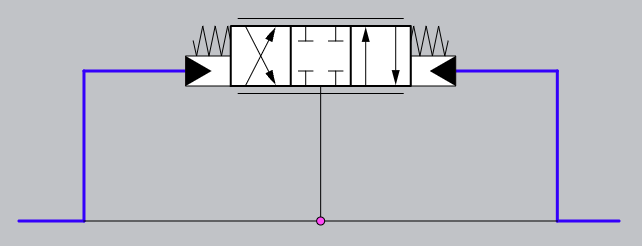
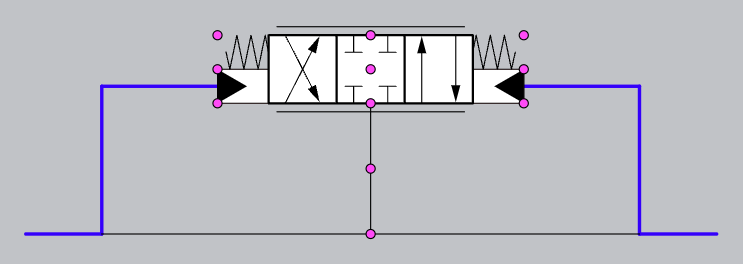
Update the user guide.

Changed region(s): [[0.0312, 0.0569, 0.9657, 0.9106], [0.4673, 0.626, 0.5296, 0.6545]]

diff --git a/README.md b/README.md
@@ -193,6 +193,29 @@ Most meeting types can be specified in _either_ file of the line types involved.
 -  If a glyph is specified in both files, but they are different glyphs, then no glyph will be used.
 -  If a glyph is specified in neither file, then no glyph will be used.
 
+### Configuring line type display order and keyboard shortcuts
+
+An optional `config.json` file can be placed in the same folder as the line types to configure two things:
+
+-  The order in which the line types appear in the sidebar.
+-  Keyboard shortcuts for switching to each line type.
+
+Here is an example of what `config.json` might look like:
+
+```
+{
+   "sidebarOrder": ["tether", "hydraulic", "drain", "pilot"],
+   "keyBindings": {
+      "tether": "T",
+      "hydraulic": "1",
+      "drain": "2",
+      "pilot": "3"
+   }
+}
+```
+
+As before, a line type is referenced by its file name (omitting the `.json` file extension). A key binding can be specified by a letter A-Z, a number 0-9, or any of the codes on [this page](https://developer.mozilla.org/en-US/docs/Web/API/UI_Events/Keyboard_event_code_values).
+
 ### Glyphs
 
 A "glyph" is a small symbol that can be placed (automatically or manually) at the point where two lines meet. As described earlier, a glyph is specified by an SVG file placed in a particular subfolder within the project folder.
@@ -232,7 +255,7 @@ And a symbol can be positioned midway between two lines as follows:
 
 <img src="./user-guide-images/equal-spacing.png" width="400px">
 
-Here, a vertical tether has been drawn between the midpoint of a horizontal tether and the midpoint of the symbol. Once this has been done, the horizontal tether acts as if it has been frozen using the Freeze tool. This ensures that the alignment is preserved throughout subsequent operations. The tether can be "unfrozen" by deleting the tether attached to its midpoint.
+These pink dots are visible whenever the tether line type is selected. You can use them to align symbols and/or tethers. In this example, the bottom-midpoint of the symbol has been aligned with the midpoint of the horizontal tether by drawing a vertical tether between them. The horizontal tether will act as if it has been frozen using the Freeze tool for as long as the vertical tether remains attached to it. This ensures that the alignment is preserved throughout subsequent operations.
 
 ## Q&A
 
